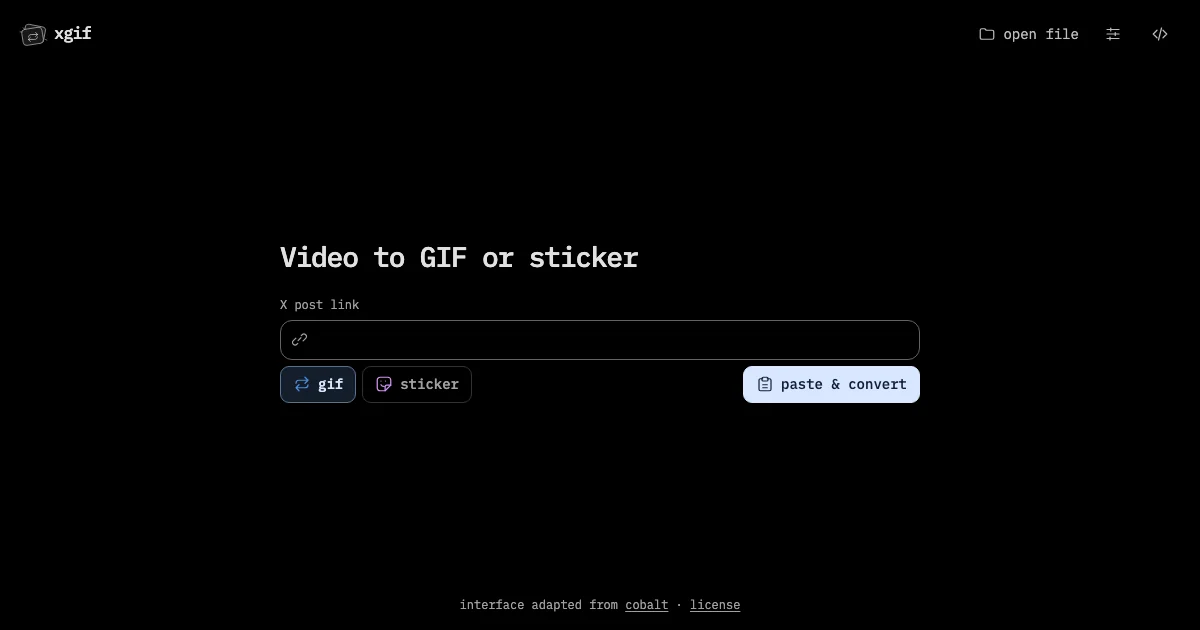
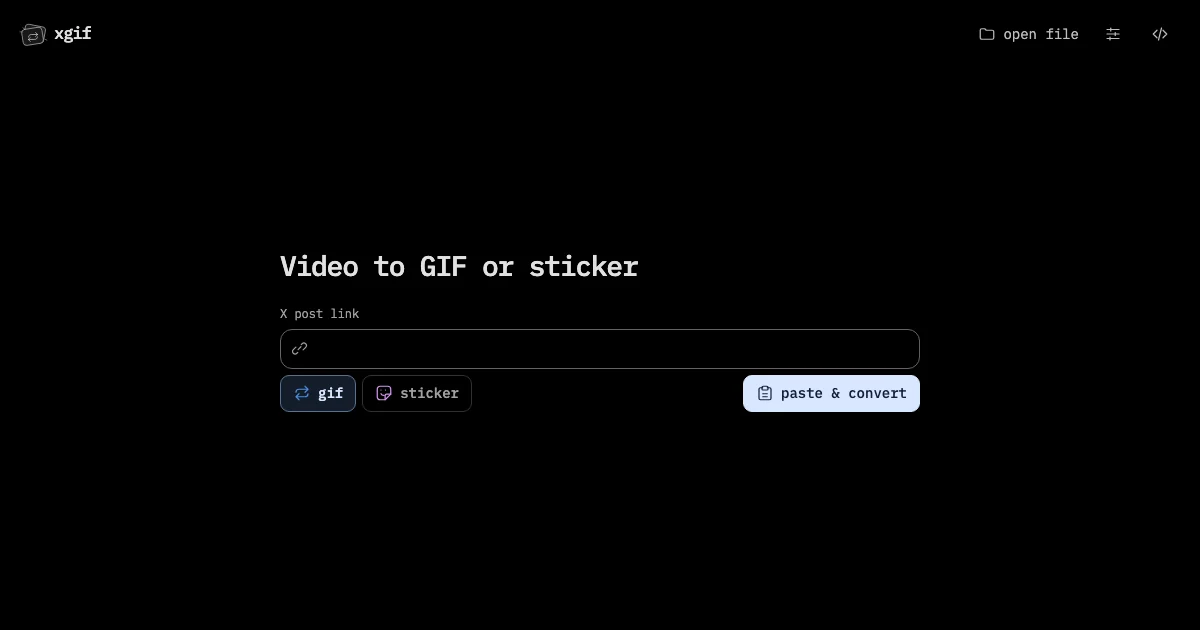
Default to full clips and simplify xgif

diff --git a/src/style.css b/src/style.css
@@ -42,7 +42,7 @@ fieldset { border: 0; padding: 0; margin: 0; min-inline-size: 0; }
 .utilities { display: flex; gap: 3px; align-items: center; }
 .tool-button { display: inline-flex; justify-content: center; align-items: center; gap: 7px; min-height: 44px; padding: 0 9px; color: #bbb; border: 0; border-radius: 9px; background: transparent; text-decoration: none; white-space: nowrap; }
 .tool-button.icon-only { width: 44px; padding: 0; }
-.workspace { position: relative; flex: 1; padding: 12px 16px max(16px, env(safe-area-inset-bottom)); display: grid; grid-template-rows: 1fr auto; justify-items: center; min-width: 0; }
+.workspace { position: relative; flex: 1; padding: 12px 16px max(16px, env(safe-area-inset-bottom)); display: grid; place-items: center; min-width: 0; }
 .converter-view { align-self: center; width: min(100%, 640px); display: grid; justify-items: stretch; padding: 24px 0 56px; min-width: 0; }
 h1 { margin: 0 0 22px; font-size: clamp(21px, 4.8vw, 28px); line-height: 1.2; font-weight: 500; letter-spacing: -.045em; text-wrap: balance; }
 .input-label { display: block; margin-bottom: 6px; color: var(--muted); font-size: 12px; }
@@ -89,6 +89,7 @@ dialog::backdrop { background: #0009; }
 .setting-row[aria-expanded=true] span { transform: rotate(90deg); }
 .trim-options { display: grid; grid-template-columns: repeat(2, minmax(0,1fr)); gap: 8px; padding: 11px; border-top: 1px solid var(--line); }
 .trim-options label { display: grid; gap: 5px; color: var(--muted); font-size: 12px; }
+#trim-help { grid-column: 1 / -1; margin: 2px 0 0; color: var(--muted); font-size: 12px; }
 .activity:has(#status:not(:empty), #working:not([hidden])) { margin-top: 9px; }
 #status, #result-help { margin: 0; color: var(--muted); font-size: 12px; text-wrap: pretty; }
 #status[data-error] { padding: 8px 10px; background: #251514; color: #ffbab4; border-radius: 8px; }
@@ -103,8 +104,6 @@ progress { flex: 1; min-width: 0; height: 5px; accent-color: #e1e1e1; }
 #result-help { margin: 8px 2px 2px; }
 .drop-hint { display: none; position: absolute; z-index: 3; inset: 12px; place-items: center; border: 1px dashed #a0a0a0; border-radius: 14px; background: #000e; pointer-events: none; }
 .workspace[data-drop] .drop-hint { display: grid; }
-footer { color: var(--muted); text-align: center; font-size: 12px; }
-footer a { text-underline-offset: 2px; }
 
 @media (hover: hover) {
   .tool-button:hover, .button:hover, .formats input:not(:checked) + span:hover, .clear-button:hover, .convert-button:hover, .setting-row:hover { background: var(--hover); }
@@ -117,7 +116,6 @@ footer a { text-underline-offset: 2px; }
   .button, .formats label > span { min-height: 44px; padding: 0 9px; }
   .command, #post { min-height: 44px; }
   #post { font-size: 16px; }
-  footer { font-size: 11px; }
 }
 @media (max-width: 370px) {
   .tool-button { width: 44px; padding: 0; }

diff --git a/src/main.js b/src/main.js
@@ -2,6 +2,7 @@ import '@fontsource/ibm-plex-mono/latin-400.css';
 import '@fontsource/ibm-plex-mono/latin-500.css';
 import './style.css';
 import { fetchVideo, resolveVideo, videoLimit } from './source.js';
+import { stickerMaxSeconds } from './sticker.js';
 
 const byId = id => document.getElementById(id);
 const form = byId('converter');
@@ -14,6 +15,8 @@ const options = byId('options');
 const optionsButton = byId('toggle-options');
 const trim = byId('trim-options');
 const trimButton = byId('toggle-trim');
+const lengthInput = byId('length');
+const formatInput = form.elements.namedItem('format');
 const result = byId('result');
 const preview = byId('preview');
 const share = byId('share');
@@ -234,8 +237,18 @@ form.addEventListener('invalid', event => {
   }
 }, true);
 form.addEventListener('change', event => {
+  if (event.target.name === 'format') updateTrimLimit();
   if (event.target === clip || event.target.name === 'format' || trim.contains(event.target)) resetResult();
 });
+
+function updateTrimLimit() {
+  const sticker = formatInput.value === 'webp';
+  lengthInput.max = sticker ? String(stickerMaxSeconds) : '';
+  byId('trim-help').textContent = sticker
+    ? `Leave length blank to use up to ${stickerMaxSeconds} seconds from the start time.`
+    : 'Leave length blank to use the rest of the source.';
+}
+updateTrimLimit();
 
 byId('cancel').addEventListener('click', () => job?.abort());
 form.addEventListener('submit', async event => {
@@ -247,9 +260,9 @@ form.addEventListener('submit', async event => {
 
   const current = new AbortController();
   job = current;
-  const format = form.elements.namedItem('format').value;
+  const format = formatInput.value;
   const start = byId('start').valueAsNumber;
-  const length = byId('length').valueAsNumber;
+  const length = lengthInput.value === '' ? undefined : lengthInput.valueAsNumber;
   controls.disabled = true;
   optionsButton.disabled = true;
   chooseVideo.disabled = true;

diff --git a/index.html b/index.html
@@ -17,6 +17,7 @@
   <link rel="canonical" href="https://wysh3.github.io/xgif/">
   <link rel="icon" href="./icon.svg" type="image/svg+xml">
   <link rel="apple-touch-icon" href="./apple-touch-icon.png">
+  <link rel="license" href="./licenses/cobalt-web.txt">
   <title>xgif</title>
 </head>
 <body>
@@ -77,7 +78,8 @@
               <button id="toggle-trim" class="setting-row" type="button" aria-controls="trim-options" aria-expanded="false">trim clip <span aria-hidden="true">›</span></button>
               <div id="trim-options" class="trim-options" hidden>
                 <label>Start (seconds)<input id="start" type="number" min="0" step="0.1" value="0" required></label>
-                <label>Length (seconds)<input id="length" type="number" min="0.5" max="10" step="0.1" value="3" required></label>
+                <label>Length (seconds)<input id="length" type="number" min="0.5" step="0.1" aria-describedby="trim-help"></label>
+                <p id="trim-help">Leave length blank to use the rest of the source.</p>
               </div>
             </div>
           </dialog>
@@ -107,7 +109,6 @@
     </div>
 
     <span class="drop-hint" aria-hidden="true">drop a video</span>
-    <footer>interface adapted from <a href="https://github.com/imputnet/cobalt/tree/a636575/web">cobalt</a> · <a href="./licenses/cobalt-web.txt">license</a></footer>
   </main>
   <script type="module" src="/src/main.js"></script>
 </body>

diff --git a/src/convert.js b/src/convert.js
@@ -1,5 +1,5 @@
 import { FFmpeg } from '@ffmpeg/ffmpeg';
-import { hasAnimatedWebPFrames } from './sticker.js';
+import { hasAnimatedWebPFrames, stickerMaxSeconds } from './sticker.js';
 
 const coreBase = 'https://cdn.jsdelivr.net/npm/@ffmpeg/core@0.12.10/dist/esm';
 const stickerLimit = 500_000;
@@ -53,7 +53,9 @@ async function encode(engine, file, format, start, length, report, signal) {
   const inputBytes = new Uint8Array(await file.arrayBuffer());
   signal.throwIfAborted();
   await engine.writeFile('input', inputBytes);
-  const input = ['-ss', String(start), '-i', 'input', '-t', String(length), '-an', '-map', '0:v:0'];
+  const input = ['-ss', String(start), '-i', 'input', '-an', '-map', '0:v:0'];
+  const duration = format === 'gif' ? length : Math.min(length ?? stickerMaxSeconds, stickerMaxSeconds);
+  if (duration != null) input.push('-t', String(duration));
   if (format === 'gif') {
     report('Making your GIF…');
     const filter = 'fps=12,scale=480:480:force_original_aspect_ratio=decrease:flags=lanczos,setsar=1,split[a][b];[a]palettegen[p];[b][p]paletteuse';

diff --git a/src/source.js b/src/source.js
@@ -2,7 +2,7 @@ const resolver = import.meta.env?.VITE_RESOLVER_URL || (import.meta.env?.DEV ? '
 export const videoLimit = 40 * 1024 * 1024;
 
 export async function resolveVideo(post, signal) {
-  if (!resolver) throw new Error('X link lookup is unavailable. Open a local video in Options.');
+  if (!resolver) throw new Error('X link lookup is unavailable. Use Open file to convert a local video.');
   const endpoint = new URL(resolver, location.href);
   endpoint.searchParams.set('url', post);
   const response = await fetch(endpoint, { signal: AbortSignal.any([signal, AbortSignal.timeout(12_000)]) });

diff --git a/src/sticker.js b/src/sticker.js
@@ -1,3 +1,5 @@
+export const stickerMaxSeconds = 10;
+
 export function hasAnimatedWebPFrames(bytes) {
   if (bytes.length < 12) return false;
   const view = new DataView(bytes.buffer, bytes.byteOffset, bytes.byteLength);

diff --git a/README.md b/README.md
@@ -1,34 +1,9 @@
 # xgif
 
-Convert public X videos and local clips into looping GIFs or animated WebP stickers. Conversion takes place on the device. The Cloudflare Pages resolver returns public video URLs, and the browser fetches those clips directly from X.
+I wanted to turn a clip from X into a GIF without opening a video editor. Paste a post or open a video, pick GIF or Sticker, and save it. The conversion runs in your browser.
 
-## Run locally
+Leave the trim length blank for the rest of the clip. Stickers stop at 10 seconds.
 
-Use Node.js 22.12 or later.
+To run it locally, use Node 22.12+ and run `npm ci`, then `npm run dev`. Run `npm run dev:worker` in another terminal if you want X links to work.
 
-```sh
-npm ci
-npm run dev:worker
-```
-
-In a second terminal, run `npm run dev` and open the Vite URL. The local video picker also works with only the frontend running.
-
-## Deploy
-
-1. Run `npx wrangler login` and select the Cloudflare account that owns the xgif Pages project. Verify with `npx wrangler whoami`.
-2. Set `ALLOWED_ORIGIN` in `worker/pages/wrangler.jsonc` to the GitHub Pages origin (scheme and hostname, without the repo path). Run `npm run deploy:resolver`. The production resolver is `https://xgif-api.pages.dev/api/resolve`.
-3. Set the GitHub Actions repository variable `VITE_RESOLVER_URL` to the resolver URL. In **Settings → Pages**, set the source to **GitHub Actions**.
-4. Push to `main` or run the Pages workflow manually. With an unset resolver URL, the deployed site can still convert local files.
-
-## Sharing and compatibility
-
-- **Share** appears where the device can hand the output file to its native share menu. **Copy** appears where the clipboard supports the exact animated file type. **Save** is available on all supported browsers.
-- WebP stickers use a 512 × 512 transparent canvas and stay within WhatsApp’s 500 KB size limit. xgif checks for timed animation frames before offering a sticker file. To send one as a native WhatsApp sticker, import the generated WebP using a compatible sticker app.
-- The browser loads the pinned [single-threaded FFmpeg engine](https://github.com/ffmpegwasm/ffmpeg.wasm) from jsDelivr when conversion starts (roughly 32 MB uncompressed). The browser can reuse the encoder and the current source for subsequent conversions. Cancel stops the current request or encoding job. Source clips are limited to 40 MiB and outputs to 10 seconds.
-- X lookup relies on its public embed endpoint, which can change or omit media. The local picker accepts a video without uploading it.
-
-`npm test` checks the resolver, streaming input limits, and animated WebP validation. `npm run build` creates the static site in `dist/`.
-
-## Interface credits
-
-The xgif layout and dark theme adapt [Cobalt Web by imputnet and its contributors](https://github.com/imputnet/cobalt/tree/a636575/web). The adapted frontend layout and styles are shared under [CC BY-NC-SA 4.0](public/licenses/cobalt-web.txt). xgif uses its own branding and adapts the controls and navigation for GIF and sticker conversion. [IBM Plex Mono](public/licenses/ibm-plex-mono.txt) is distributed under the SIL Open Font License.
+The interface started from [Cobalt Web](https://github.com/imputnet/cobalt/tree/a636575/web). I adapted it for xgif. [Cobalt’s license](public/licenses/cobalt-web.txt) · [IBM Plex Mono’s license](public/licenses/ibm-plex-mono.txt).
